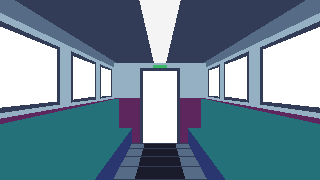
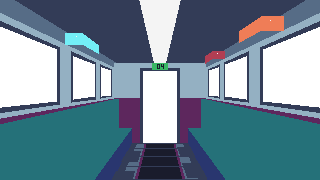
Optimisation du placeholder + structure basique

diff --git a/css/style.css b/css/style.css
@@ -242,11 +242,11 @@ img {
 
 
 /* Étiquette au-dessus de la porte ("Wagon suivant" ou "Fin du train").
-   Centrée sur la porte, juste au-dessus du panneau lumineux (ligne 66 de la toile). */
+   Centrée sur la porte, juste au-dessus du panneau lumineux numéroté (ligne 62 de la toile). */
 .etiquette-porte {
   position: absolute;
   left: 50%;
-  bottom: calc(100% * (180 - 66) / 180);
+  bottom: calc(100% * (180 - 62) / 180);
   transform: translateX(-50%);
   padding: 0.25rem 0.5rem;
   border: 2px solid var(--couleur-pensee-bordure);

diff --git a/DOCUMENTATION.md b/DOCUMENTATION.md
@@ -155,6 +155,8 @@ Point de fuite : **x = 160, y = 90** (centre exact de la toile).
 | Ouverture de la porte | x 144 à 176, y 72 à 142 |
 | Banquettes | le long des parois, du bas de l'écran jusqu'au mur du fond |
 | Fenêtres | sur les parois, au-dessus des banquettes, trouées (transparentes) |
+| Panneau numéroté | x 152 à 167, y 63 à 69, au-dessus de la porte (numéro du wagon sur deux chiffres) |
+| Personnages | dessinés entiers, pieds visibles : le bas de l'écran ne doit couper personne |
 
 Ouvrir `assets/images/wagon-01/interieur.png` dans son logiciel donne tous ces repères : on peut s'en servir comme gabarit.
 
